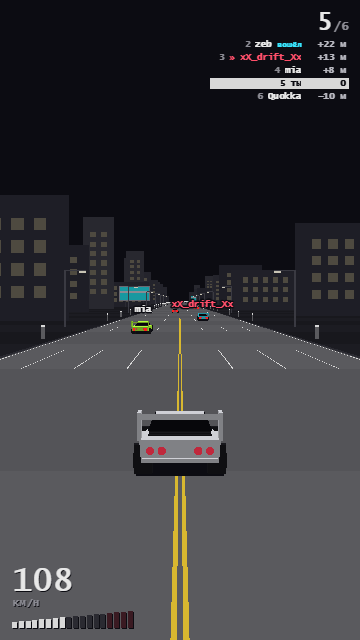
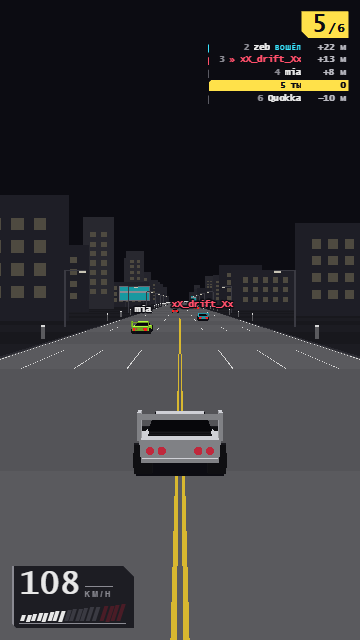
HUD style: flat chamfered plates, skewed speed bar, warning-yellow place and player row, hard-step place flash

Changed region(s): [[0.0306, 0.875, 0.3972, 1.0], [0.5806, 0.0, 0.9778, 0.1562]]

diff --git a/src/ui/leaderboard.ts b/src/ui/leaderboard.ts
@@ -13,25 +13,33 @@ const GAP_CACHE = 3000;
 const PLAYER_NAME = 'ты';
 const JOINED = 'вошёл';
 
+// HUD look (docs/art-bible.md "HUD"): flat dark chamfered plates with a hard edge stripe; the
+// place and the player's row on the warning yellow; the place change is a hard colour step
+// (no transition) for placeFlashTime.
 const STYLE = `
 #board{position:fixed;pointer-events:none;z-index:5;font-family:ui-monospace,"Lucida Console",
 Consolas,monospace;font-weight:900;color:#e8e8e8;line-height:1;-webkit-font-smoothing:none;
-font-smooth:never;text-shadow:0.08em 0.08em 0 #0c0c12;display:flex;flex-direction:column;
-align-items:flex-end}
-#board .big{font-size:2.6em;font-variant-numeric:tabular-nums;transition:color .15s}
-#board .big small{font-size:0.5em;color:#8a8a92;margin-left:0.1em}
-#board.up .big{color:#b4ff39}
-#board.down .big{color:#ff4f6a}
-#board .rows{margin-top:0.35em;display:flex;flex-direction:column;gap:0.18em}
+font-smooth:never;display:flex;flex-direction:column;align-items:flex-end}
+#board .big{font-size:2.6em;font-variant-numeric:tabular-nums;background:#ffe14a;color:#0c0c12;
+padding:0.06em 0.12em 0.04em 0.4em;clip-path:polygon(0 0,100% 0,100% 100%,0.3em 100%,0 calc(100% - 0.3em))}
+#board .big small{font-size:0.5em;margin-left:0.1em;letter-spacing:0.1em}
+#board.up .big{background:#b4ff39}
+#board.down .big{background:#ff4f6a}
+#board .rows{margin-top:0.3em;display:flex;flex-direction:column;gap:0.16em}
 #board .row{display:flex;gap:0.5em;align-items:baseline;justify-content:flex-end;
-font-size:0.95em;padding:0.12em 0.35em;background:rgba(12,12,18,0.55)}
+font-size:0.95em;padding:0.14em 0.35em 0.12em 0.5em;background:rgba(12,12,18,0.78);
+border-left:0.18em solid #5a5a62;clip-path:polygon(0.4em 0,100% 0,100% 100%,0 100%,0 0.4em)}
 #board .row .p{width:1.2em;text-align:right;color:#8a8a92}
 #board .row .n{max-width:9em;overflow:hidden;white-space:nowrap}
 #board .row .g{width:4.4em;text-align:right;font-variant-numeric:tabular-nums;color:#b8b8c0}
-#board .row .j{font-size:0.75em;color:#39e6ff;display:none}
+#board .row .j{font-family:"Arial Narrow","Roboto Condensed",sans-serif-condensed,Bahnschrift,
+ui-monospace,monospace;font-stretch:condensed;font-size:0.75em;font-weight:700;color:#39e6ff;
+text-transform:uppercase;letter-spacing:0.15em;display:none}
+#board .row.joined{border-left-color:#39e6ff}
 #board .row.joined .j{display:inline}
-#board .row.me{background:#d8d8d8;color:#0c0c12;text-shadow:none}
+#board .row.me{background:#ffe14a;color:#0c0c12;border-left-color:#0c0c12}
 #board .row.me .p,#board .row.me .g{color:#0c0c12}
+#board .row.nem{border-left-color:#ff4f6a}
 #board .row.nem .n{color:#ff4f6a}
 #board .row.nem .n::before{content:'» '}
 `;

diff --git a/src/ui/speedometer.ts b/src/ui/speedometer.ts
@@ -36,18 +36,27 @@ export function readSpeed(out: SpeedReading, car: Car, speed: number, vmax: numb
   return out;
 }
 
+// HUD look (docs/art-bible.md "HUD"): flat dark chamfered plate, hard edges, skewed bar segments,
+// stencil-like spaced label; accent colour only for boost. No transitions: state changes are steps.
 const STYLE = `
 #speedo{position:fixed;pointer-events:none;z-index:5;display:flex;flex-direction:column;
 align-items:flex-start;font-family:ui-monospace,"Lucida Console",Consolas,monospace;
 font-weight:900;color:#e8e8e8;line-height:1;-webkit-font-smoothing:none;font-smooth:never;
-text-shadow:0.08em 0.08em 0 #0c0c12}
+background:rgba(12,12,18,0.78);border-left:0.25em solid #8a8a92;padding:0.35em 0.8em 0.4em 0.5em;
+clip-path:polygon(0 0,calc(100% - 1.1em) 0,100% 1.1em,100% 100%,0.45em 100%,0 calc(100% - 0.45em))}
+#speedo .top{display:flex;align-items:flex-end}
 #speedo .num{font-size:3.2em;letter-spacing:0.02em;font-variant-numeric:tabular-nums}
-#speedo .unit{font-size:0.9em;color:#8a8a92;margin:0.15em 0 0.35em 0.15em;letter-spacing:0.12em}
-#speedo .bar{display:flex;gap:0.18em;align-items:flex-end}
-#speedo .seg{width:0.5em;background:#2a2a31;box-shadow:0.1em 0.1em 0 #0c0c12}
-#speedo .seg.on{background:#d8d8d8}
-#speedo .seg.boost{background:#3a1a22}
+#speedo .unit{font-family:"Arial Narrow","Roboto Condensed",sans-serif-condensed,Bahnschrift,
+ui-monospace,monospace;font-stretch:condensed;font-size:0.85em;font-weight:700;color:#8a8a92;
+letter-spacing:0.3em;margin:0 0 0.35em 0.45em;padding-top:0.3em;border-top:0.12em solid #8a8a92}
+#speedo .bar{display:flex;gap:0.14em;align-items:flex-end;margin-top:0.3em;padding:0 0.3em 0.18em 0.2em;
+border-bottom:0.12em solid #8a8a92}
+#speedo .seg{width:0.42em;background:#3a3a42;transform:skewX(-18deg)}
+#speedo .seg.on{background:#e8e8e8}
+#speedo .seg:not(.boost)+.seg.boost{margin-left:0.32em}
+#speedo .seg.boost{background:#4a1c26}
 #speedo .seg.boost.on{background:#c0283c}
+#speedo.boosting{border-left-color:#ffe14a}
 #speedo.boosting .num{color:#ffe14a}
 #speedo.boosting .seg.boost.on{background:#ffe14a}
 `;
@@ -93,7 +102,10 @@ export class Speedometer {
       bar.appendChild(s);
       this.segs.push(s);
     }
-    root.append(this.num, unit, bar);
+    const top = document.createElement('div');
+    top.className = 'top';
+    top.append(this.num, unit);
+    root.append(top, bar);
     parent.appendChild(root);
     this.root = root;
     this.layout();

diff --git a/docs/art-bible.md b/docs/art-bible.md
@@ -26,5 +26,15 @@ Dark Psychedelic Arcade Racing. Референсы: Vermis, LSD: Dream Emulator 
 | Трафик (десатурация) | `#6f7480` |
 | Шевроны | `#ffe14a` |
 
+## HUD [старт]
+Спидометр (R28) и таблица мест (R67) — одна графическая система в духе Wipeout, но утилитарная и жёсткая (постапокалипсис): приборная панель, а не глянец.
+- Форма: плоские тёмные плашки `rgba(12,12,18,0.78)` (дорога просвечивает) со срезанными углами (`clip-path`), жёсткие края; цветная полоса-кромка слева; у спидометра — риска под единицами и базовая линия под шкалой, как у прибора.
+- Шкала скорости — скошенные сегменты, растут к краю; зона буста (R53) отделена зазором, в покое тёмно-красная `#4a1c26`, горит `#c0283c`, при бусте — жёлтая, вместе с числом и кромкой.
+- Текст: цифры — моноширинный системный шрифт; подписи (`KM/H`, «ВОШЁЛ») — узкий системный шрифт, прописные, широкая разрядка. Веб-шрифтов нет.
+- Цвет: светлый текст `#e8e8e8`, второстепенное — серые `#8a8a92` / `#b8b8c0`. Акцент только по делу: место и строка игрока — предупреждающий жёлтый шевронов `#ffe14a` с чёрным текстом; буст — жёлтый; цвета соперников (`#39e6ff` «вошёл», `#ff4f6a` немезида) сохраняются. Смена места: плашка места на `placeFlashTime` становится `#b4ff39` (вверх) или `#ff4f6a` (вниз).
+- Движение: только жёсткие шаги — класс меняет цвет мгновенно, без `transition` и плавных затуханий.
+- Запрещено: градиенты, свечение, глянец, тени-обводки; шум, зерно, царапины, сканлайны, мерцание, текстуры ржавчины («мельтешит» — отзыв автора). Чистые плоские заливки (Killer7).
+- Размер: em от ширины холста (`sprites.json`, блоки `speedometer` / `leaderboard`); спидометр ≤ 36% ширины и ≤ 11% высоты холста, таблица ≤ 40% / ≤ 16%, текст строк ≥ 9 px на 360 по ширине.
+
 ## Заглушки и замена
 Имена ассетов: `<layer>_<kind>_<variant>` (например `l3_post_a`). Код ссылается на имя в атласе, не на файл — финальный ассет подменяется без правки кода.
